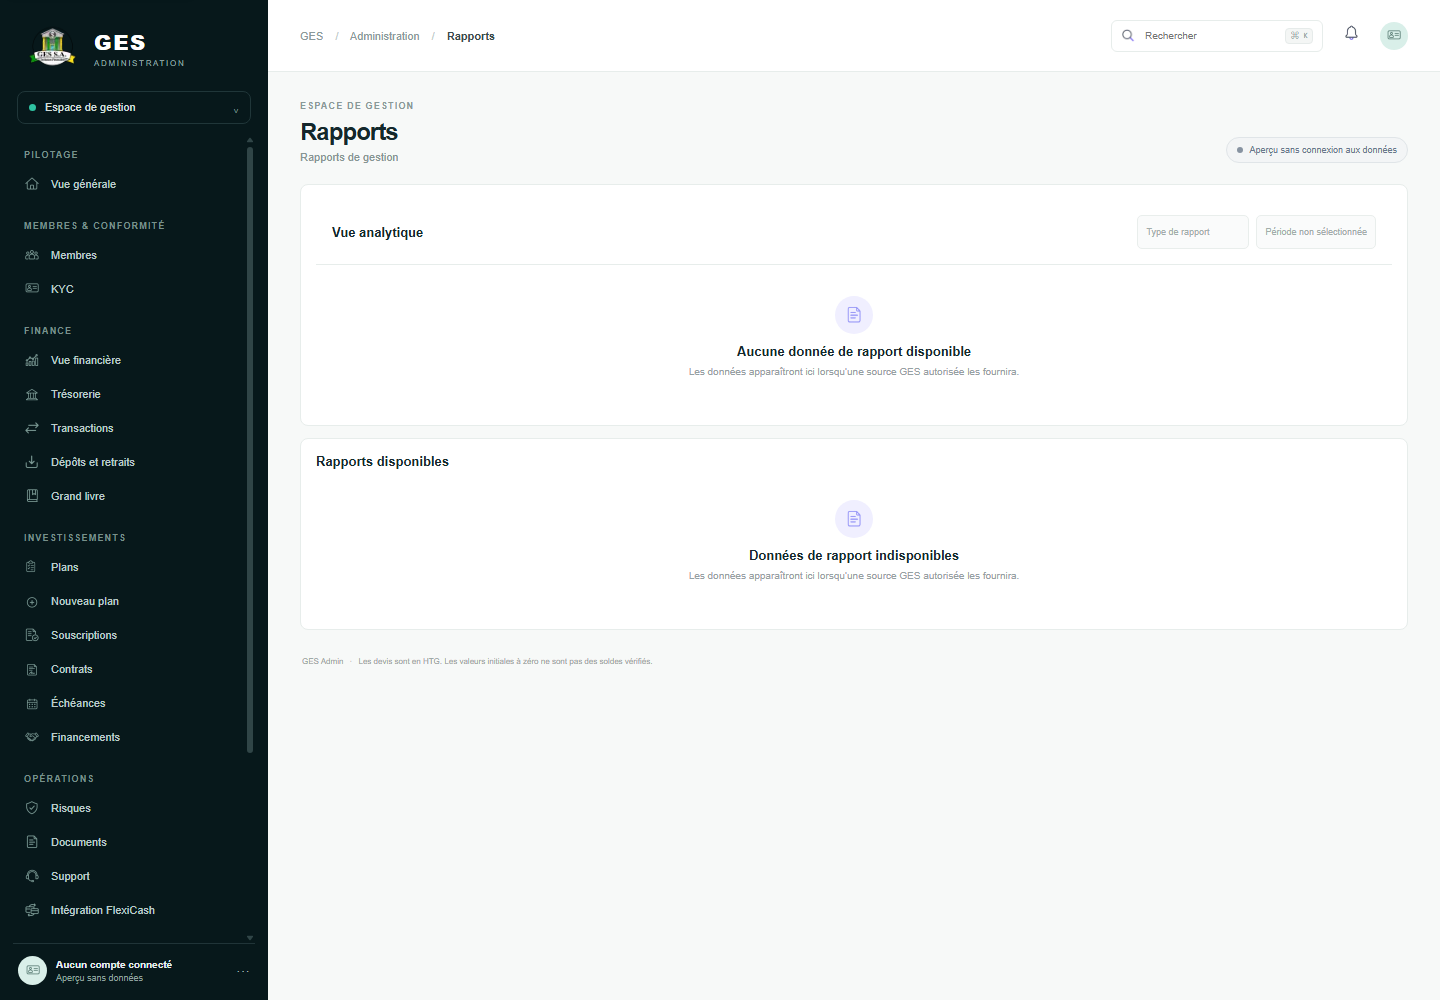
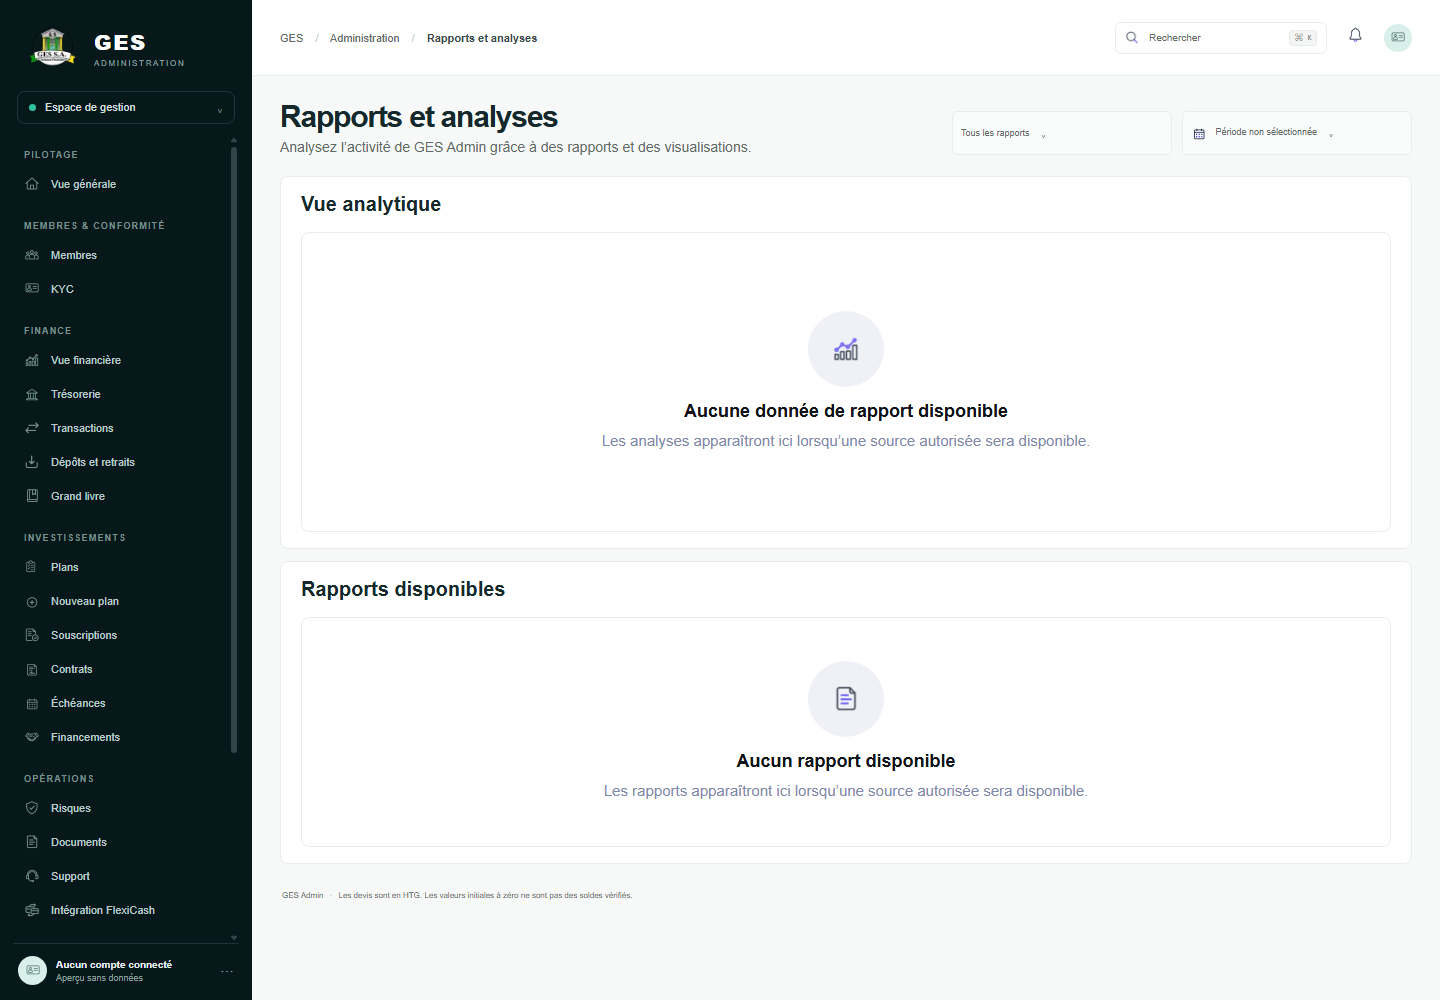
Align reports workspace with MF-27

diff --git a/components/admin-shell.tsx b/components/admin-shell.tsx
@@ -26,7 +26,7 @@ const pages: Record<string, { title: string; subtitle: string }> = {
   "vue-financiere": { title: "Vue financière générale", subtitle: "Aperçu de la position financière de GES Admin en HTG et USD." }, tresorerie: { title: "Trésorerie", subtitle: "Positions de trésorerie" }, transactions: { title: "Transactions", subtitle: "Consultez et gérez l’ensemble des transactions." },
   "depots-retraits": { title: "Dépôts et retraits", subtitle: "Suivi des mouvements entrants et sortants" }, "grand-livre": { title: "Grand livre et rapprochement", subtitle: "Consultation du grand livre comptable et rapprochement des soldes." }, plans: { title: "Catalogue des plans d’investissement", subtitle: "Vue d’ensemble des plans d’investissement autorisés sur GES Admin." },
   souscriptions: { title: "Souscriptions", subtitle: "Vue d’ensemble des souscriptions effectuées sur GES Admin." }, contrats: { title: "Contrats d’investissement", subtitle: "Liste des contrats d’investissement enregistrés dans GES Admin." }, echeances: { title: "Échéances et distributions", subtitle: "Suivi des échéances et des distributions de capital et d’intérêts." }, financements: { title: "Financements GES", subtitle: "Gestion des dossiers de financement du GES Admin." }, "plans/nouveau": { title: "Nouveau plan d’investissement", subtitle: "Créer un nouveau plan d’investissement (brouillon)." },
-  risques: { title: "Risques et alertes", subtitle: "Surveillance des risques et des alertes de GES Admin." }, documents: { title: "Documents et notifications", subtitle: "Consultez les documents et les notifications de GES Admin." }, support: { title: "Assistance et tickets", subtitle: "Liste des demandes d’assistance et de support de GES Admin." }, rapports: { title: "Rapports", subtitle: "Rapports de gestion" }, equipe: { title: "Équipe", subtitle: "Accès et rôles de l’équipe" }, audit: { title: "Audit", subtitle: "Journal des actions administratives" }, parametres: { title: "Paramètres", subtitle: "Configuration de l’espace" }, notifications: { title: "Notifications", subtitle: "Centre de notifications administratives" }, "roles-permissions": { title: "Rôles et permissions", subtitle: "Les permissions effectives sont contrôlées côté serveur" }, "integrations-flexicash": { title: "Intégration FlexiCash", subtitle: "Les espaces GES et FlexiCash restent séparés" },
+  risques: { title: "Risques et alertes", subtitle: "Surveillance des risques et des alertes de GES Admin." }, documents: { title: "Documents et notifications", subtitle: "Consultez les documents et les notifications de GES Admin." }, support: { title: "Assistance et tickets", subtitle: "Liste des demandes d’assistance et de support de GES Admin." }, rapports: { title: "Rapports et analyses", subtitle: "Analysez l’activité de GES Admin grâce à des rapports et des visualisations." }, equipe: { title: "Équipe", subtitle: "Accès et rôles de l’équipe" }, audit: { title: "Audit", subtitle: "Journal des actions administratives" }, parametres: { title: "Paramètres", subtitle: "Configuration de l’espace" }, notifications: { title: "Notifications", subtitle: "Centre de notifications administratives" }, "roles-permissions": { title: "Rôles et permissions", subtitle: "Les permissions effectives sont contrôlées côté serveur" }, "integrations-flexicash": { title: "Intégration FlexiCash", subtitle: "Les espaces GES et FlexiCash restent séparés" },
 };
 
 const detailPages: Record<string, { title: string; subtitle: string }> = {
@@ -148,7 +148,7 @@ export function AdminShell({ section }: { section: string }) {
     </aside>
     {menuOpen && <button className="drawer-backdrop visible" type="button" aria-label="Fermer le menu" tabIndex={-1} onClick={closeMenu}/>}
     <main className="main-area" id="main-content" tabIndex={-1} inert={menuOpen}><header className="topbar"><button ref={menuButtonRef} className="mobile-menu-toggle" onClick={() => menuOpen ? closeMenu() : setMenuOpen(true)} aria-label={menuOpen ? "Fermer le menu" : "Ouvrir le menu"} aria-expanded={menuOpen} aria-controls="primary-navigation">{menuOpen ? <Image src="/assets/icons/close.webp" alt="" width={19} height={19}/> : <span className="menu-bars" aria-hidden="true"/>}</button><div className="breadcrumb">GES <span>/</span> Administration <span>/</span> <b>{page.title}</b></div><div className="top-actions"><label className="search"><Image src="/assets/icons/search.webp" alt="" width={15} height={15}/><input placeholder="Rechercher" aria-label="Rechercher" value={searchQuery} onChange={(event) => setSearchQuery(event.target.value)}/><kbd>⌘ K</kbd></label><Link href="/admin/notifications" className="bell" aria-label="Notifications"><Image src="/assets/icons/notification.webp" alt="" width={19} height={19}/></Link><div className="top-avatar"><Image src="/assets/icons/identity.webp" alt="" width={16} height={16}/></div></div></header>
-      <div className={`content ${key === "plans/nouveau" ? "plan-content" : ""}`}>{key === "souscriptions/dossier" && <Link className="detail-back" href="/admin/souscriptions">← Retour aux souscriptions</Link>}{key === "contrats/dossier" && <Link className="detail-back" href="/admin/contrats">← Retour aux contrats</Link>}{key === "risques/incident" && <Link className="detail-back" href="/admin/risques">← Retour aux alertes</Link>}{key === "support/conversation" && <Link className="detail-back" href="/admin/support">← Retour aux tickets</Link>}<div className="page-heading"><div>{key !== "transactions" && key !== "souscriptions/dossier" && key !== "contrats/dossier" && key !== "risques/incident" && key !== "support/conversation" && key !== "documents" && <div className="eyebrow">ESPACE DE GESTION</div>}<h1>{page.title}</h1>{page.subtitle && <p>{page.subtitle}</p>}</div><div className="heading-actions">{key !== "souscriptions/dossier" && key !== "contrats/dossier" && key !== "risques/incident" && key !== "support/conversation" && key !== "documents" && <span className="status-pill preview-pill"><i/> Aperçu sans connexion aux données</span>}</div></div>
+      <div className={`content ${key === "plans/nouveau" ? "plan-content" : ""}`}>{key === "souscriptions/dossier" && <Link className="detail-back" href="/admin/souscriptions">← Retour aux souscriptions</Link>}{key === "contrats/dossier" && <Link className="detail-back" href="/admin/contrats">← Retour aux contrats</Link>}{key === "risques/incident" && <Link className="detail-back" href="/admin/risques">← Retour aux alertes</Link>}{key === "support/conversation" && <Link className="detail-back" href="/admin/support">← Retour aux tickets</Link>}<div className="page-heading"><div>{key !== "transactions" && key !== "souscriptions/dossier" && key !== "contrats/dossier" && key !== "risques/incident" && key !== "support/conversation" && key !== "documents" && key !== "rapports" && <div className="eyebrow">ESPACE DE GESTION</div>}<h1>{page.title}</h1>{page.subtitle && <p>{page.subtitle}</p>}</div><div className="heading-actions">{key === "rapports" && <div className="reports-page-filters"><button className="filter-button" disabled>Tous les rapports <span>⌄</span></button><button className="filter-button" disabled><Image src="/assets/icons/calendar.webp" alt="" width={16} height={16}/> Période non sélectionnée <span>⌄</span></button></div>}{key !== "souscriptions/dossier" && key !== "contrats/dossier" && key !== "risques/incident" && key !== "support/conversation" && key !== "documents" && key !== "rapports" && <span className="status-pill preview-pill"><i/> Aperçu sans connexion aux données</span>}</div></div>
       {key === "notifications" ? <NotificationsWorkspace query={searchQuery} onQueryChange={setSearchQuery}/> : key === "plans/nouveau" ? <><Link href="/admin/plans" className="plan-back">← Retour aux plans</Link><PlanForm/></> : overview ? <>{financial && <div className="module-notice">Valeurs initiales — les montants affichés sont à confirmer et ne constituent pas des soldes vérifiés.</div>}<div className={`metric-grid ${financial ? "financial-metrics" : ""}`}>{metrics.map(([label,value,caption])=><MetricCard key={label} label={label} value={value} caption={caption}/>)}</div>
       {financial && <UsdUnavailable/>}
       <div className={`overview-grid ${financial ? "financial-overview-grid" : "command-overview-grid"}`}><section className="panel"><div className="panel-head"><div><h2>{financial ? "Tendance de trésorerie" : "Tendance financière"}</h2></div>{financial && <button className="select-button" disabled title="Les données sont indisponibles">Période⌄</button>}</div><div className="chart-empty"><div className="chart-lines"><span/><span/><span/><span/></div><div className="chart-message">Aucune donnée disponible</div></div></section><section className="panel breakdown"><div className="panel-head"><div><h2>{financial ? "Obligations à venir" : "Répartition des investissements"}</h2></div>{financial && <button className="dots" disabled aria-label="Options indisponibles">···</button>}</div>{financial ? <div className="donut-wrap"><p>Aucune donnée disponible</p></div> : <div className="donut-wrap"><div className="donut"><div/></div><p>Aucune donnée disponible</p></div>}</section></div>

diff --git a/app/globals.css b/app/globals.css
@@ -74,3 +74,4 @@ a:focus-visible,button:focus-visible,input:focus-visible,select:focus-visible,te
 @media(max-width:900px){.support-workspace{grid-template-columns:minmax(0,1fr);min-height:0}.support-workspace>section{width:100%;min-width:0}.support-list{min-height:280px}.support-thread{min-height:380px}.support-details{min-height:260px}.support-ticket-search{width:100%;box-sizing:border-box}.support-empty-state{min-height:180px}.support-no-selection{min-height:220px}.support-detail-row{min-height:68px}}
 @media(max-width:700px){.support-workspace{gap:10px}.support-workspace>section{padding:12px}.support-list{min-height:260px}.support-thread{min-height:350px}.support-details{min-height:245px}.support-composer{gap:6px}.support-composer button{min-width:38px;width:38px;padding:0;font-size:0}.support-detail-row-icon{width:42px;height:42px}}
 .communications-panel{overflow:hidden;margin-bottom:12px}.communications-header{min-height:72px;display:flex;align-items:center;gap:14px;padding:12px 18px;border-bottom:1px solid var(--line)}.communications-header h2{flex:1;min-width:140px;margin:0;font:700 20px Arial,Helvetica,sans-serif}.communications-header .filter-search{height:42px;flex:0 1 320px;min-width:180px}.communications-header .filter-button{height:42px;min-width:180px;text-align:left}.communications-empty{min-height:326px;display:flex;align-items:center;justify-content:center;flex-direction:column;text-align:center;padding:22px}.communications-empty-icon{width:80px;height:80px;margin-bottom:14px;border-radius:50%;background:#f0f1f6;display:grid;place-items:center}.communications-empty-icon img{width:32px;height:32px;opacity:.72}.communications-empty h3{margin:0;font:700 18px Arial,Helvetica,sans-serif;color:#101418}.communications-empty p{max-width:360px;margin:8px 0 0;color:#7c88ac;font-size:15px;line-height:1.5}@media(max-width:760px){.communications-header{align-items:stretch;flex-wrap:wrap;gap:8px;padding:12px}.communications-header h2{flex:1 1 100%;font-size:17px}.communications-header .filter-search{flex:1 1 100%;max-width:none;min-width:0}.communications-header .filter-button{flex:1;min-width:0;height:38px}.communications-empty{min-height:235px;padding:18px}.communications-empty-icon{width:64px;height:64px}.communications-empty h3{font-size:15px}.communications-empty p{font-size:12px}}
+.reports-page-filters{display:flex;align-items:center;gap:10px}.reports-page-filters .filter-button{height:44px;min-width:220px;text-align:left}.reports-page-filters .filter-button:last-child{min-width:230px}.reports-page-filters .filter-button img{vertical-align:middle;margin-right:6px}.reports-analysis-panel,.reports-list-panel{padding:16px 20px;margin-bottom:12px}.reports-analysis-panel>h2,.reports-list-panel>h2{margin:0 0 16px;font:700 20px Arial,Helvetica,sans-serif}.reports-empty-state{min-height:300px;border:1px solid var(--line);border-radius:8px;display:flex;align-items:center;justify-content:center;flex-direction:column;text-align:center;padding:20px}.reports-list-panel .reports-empty-state{min-height:230px}.reports-empty-icon{width:76px;height:76px;border-radius:50%;background:#f0f1f6;display:grid;place-items:center;margin-bottom:14px}.reports-empty-icon img{width:30px;height:30px;opacity:.72}.reports-empty-state strong{font-size:18px;color:#101418}.reports-empty-state p{max-width:600px;margin:8px 0 0;color:#7c88ac;font-size:15px;line-height:1.5}@media(max-width:760px){.reports-page-filters{flex:1 1 100%;flex-wrap:wrap;gap:6px}.reports-page-filters .filter-button,.reports-page-filters .filter-button:last-child{flex:1;min-width:160px;height:38px}.reports-analysis-panel,.reports-list-panel{padding:13px}.reports-analysis-panel>h2,.reports-list-panel>h2{font-size:16px}.reports-empty-state{min-height:230px;padding:16px}.reports-list-panel .reports-empty-state{min-height:200px}.reports-empty-icon{width:64px;height:64px}.reports-empty-state strong{font-size:15px}.reports-empty-state p{font-size:12px}}

diff --git a/components/module-workspace.tsx b/components/module-workspace.tsx
@@ -76,9 +76,9 @@ export function ModuleWorkspace({ sectionKey, query, onQueryChange }: { sectionK
     <section className="panel module-subpanel calendar-panel"><div className="module-panel-header"><h2>Calendrier des échéances</h2><div className="calendar-period-controls"><button type="button" disabled aria-label="Période précédente">‹</button><button type="button" disabled>Période non sélectionnée</button><button type="button" disabled aria-label="Période suivante">›</button></div></div><div className="calendar-empty"><div className="calendar-weekdays">{["Lundi", "Mardi", "Mercredi", "Jeudi", "Vendredi", "Samedi", "Dimanche"].map((day) => <span key={day}>{day}</span>)}</div><div className="calendar-blank-grid" aria-hidden="true">{Array.from({length:35}, (_, index) => <span key={index}/>)}</div><EmptyState title="Aucune échéance disponible" description="Les échéances apparaîtront ici lorsqu’elles seront disponibles." searching={false}/></div></section>
     <GenericTable sectionKey={sectionKey} page={{ title: "Liste des échéances", description: "", filters: [], showSearch: false, columns: ["Échéance", "Type", "Bénéficiaire", "Montant (HTG)", "Statut"], empty: "Aucune échéance disponible", emptyDescription: "Les échéances apparaîtront ici lorsqu’elles seront disponibles." }} query={query} onQueryChange={onQueryChange} activeTab={activeTab} setActiveTab={setActiveTab}/>
   </>;
-  if (sectionKey === "rapports") return <>
-    <section className="panel module-subpanel"><div className="module-panel-header"><h2>Vue analytique</h2><div className="module-filter-row"><button disabled className="filter-button">Type de rapport</button><button disabled className="filter-button">Période non sélectionnée</button></div></div><EmptyState title="Aucune donnée de rapport disponible" searching={false}/></section>
-    <section className="panel module-subpanel"><h2>Rapports disponibles</h2><EmptyState title="Données de rapport indisponibles" searching={false}/></section>
+if (sectionKey === "rapports") return <>
+    <section className="panel module-subpanel reports-analysis-panel"><h2>Vue analytique</h2><div className="reports-empty-state"><div className="reports-empty-icon"><Image src="/assets/icons/analytics.webp" alt="" width={30} height={30}/></div><strong>Aucune donnée de rapport disponible</strong><p>Les analyses apparaîtront ici lorsqu’une source autorisée sera disponible.</p></div></section>
+    <section className="panel module-subpanel reports-list-panel"><h2>Rapports disponibles</h2><div className="reports-empty-state"><div className="reports-empty-icon"><Image src="/assets/icons/document.webp" alt="" width={30} height={30}/></div><strong>Aucun rapport disponible</strong><p>Les rapports apparaîtront ici lorsqu’une source autorisée sera disponible.</p></div></section>
   </>;
   if (sectionKey === "parametres") return <><div className="module-notice">Les paramètres restent indisponibles sans source GES autorisée.</div><div className="module-settings-grid">{["Profil de l’organisation", "Préférences financières", "Sécurité", "Notifications administratives"].map((title) => <section className="panel module-subpanel" key={title}><h2>{title}</h2><EmptyState title="Données indisponibles" searching={false}/></section>)}</div><button className="primary-button" disabled>Enregistrer les modifications</button></>;
   if (sectionKey === "roles-permissions") return <>

diff --git a/design/qa/README.md b/design/qa/README.md
@@ -167,3 +167,4 @@ Captures MF-23 : admin-risques-incident-1440x1000.png et admin-risques-incident-
 Captures MF-24 : admin-support-1440x1000.png et admin-support-390x844.png. Aucun ticket de demonstration, identite ou message; les filtres restent neutres sans source GES autorisee.
 Captures MF-25 : admin-support-conversation-1440x1000.png et admin-support-conversation-390x844.png. La conversation vide indique clairement les tickets et details indisponibles; reponse desactivee sans conversation et autorisation confirmees. Aucun identifiant, message, statut, date ou montant fictif.
 Captures MF-26 : admin-documents-notifications-1440x1000.png et admin-documents-notifications-390x844.png. La route Documents presente les deux panneaux de la reference; recherche documentaire active, filtre de type et filtre de notifications inactifs faute de source GES. Aucun fichier, notification, identite, date ou montant fictif.
+Captures MF-27 : admin-rapports-1440x1000.png et admin-rapports-390x844.png. Rapports et analyses utilisent des filtres inactifs faute de source autorisee; vues analytiques et catalogue restent vides. Aucun chiffre, periode, rapport ou statut fictif.
